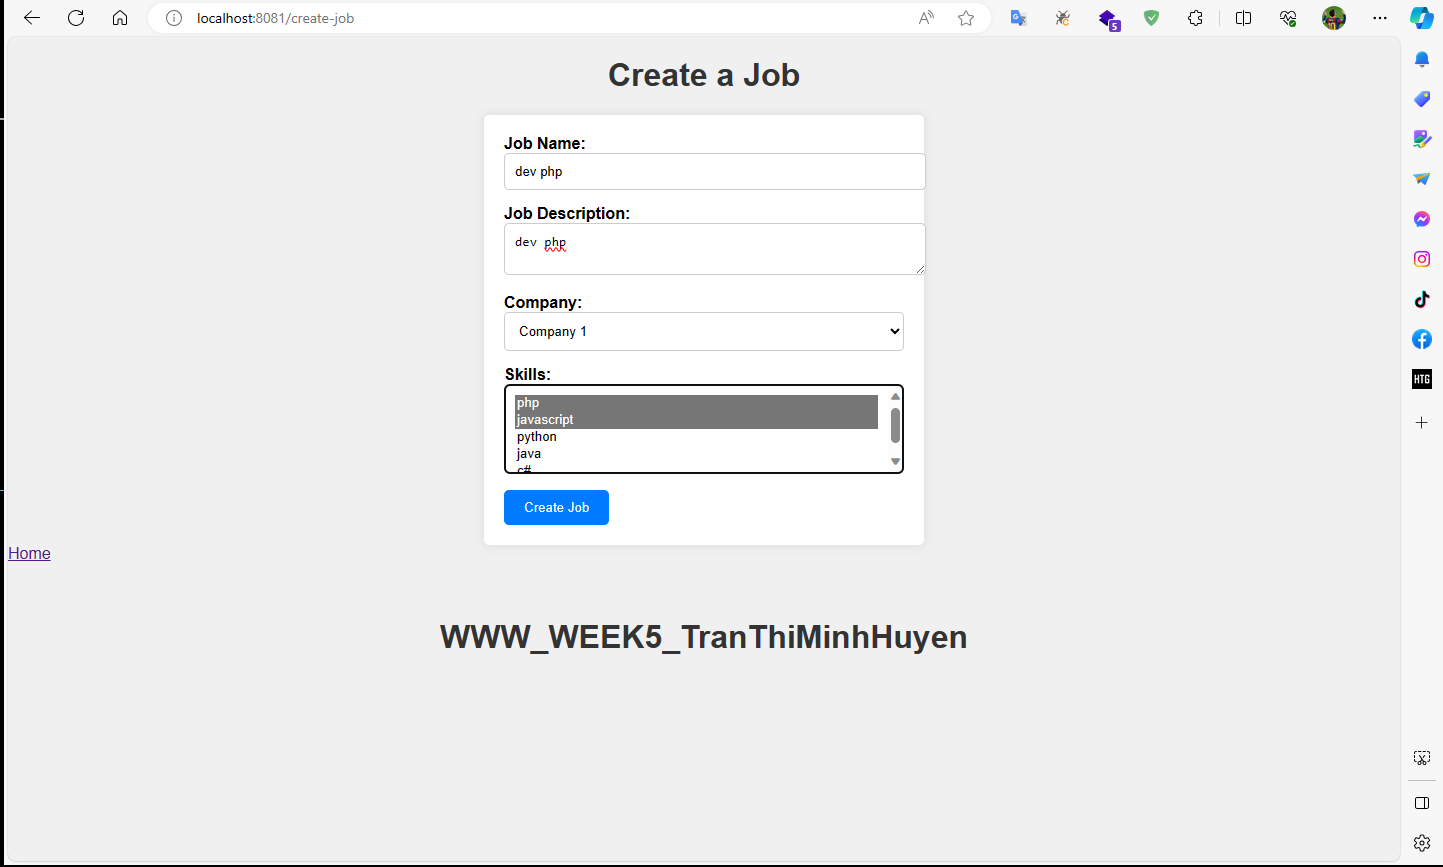
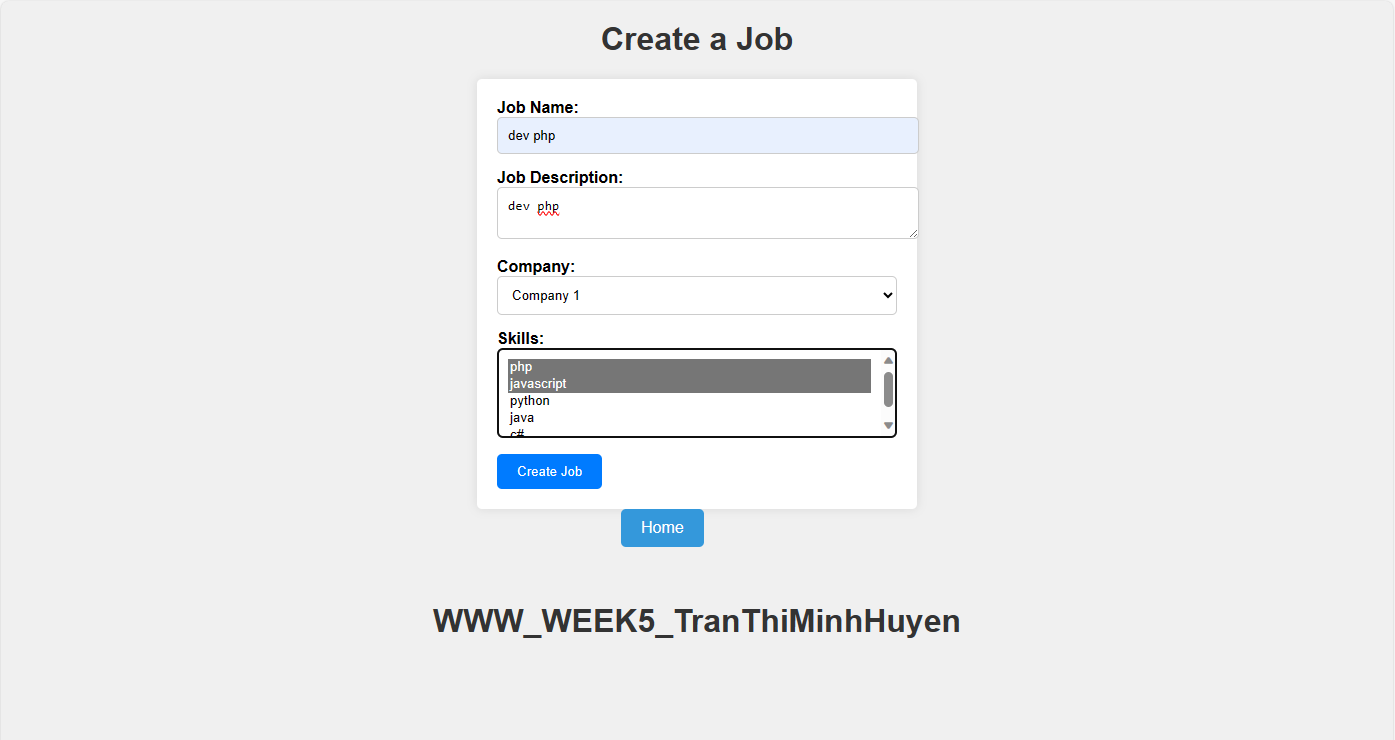
pú code

diff --git a/src/main/resources/templates/job/list.html b/src/main/resources/templates/job/list.html
@@ -10,7 +10,7 @@
             background-color: #f2f2f2;
         }
         h1 {
-            background-color: #333;
+            background-color: #007bff;
             color: #fff;
             padding: 10px;
             text-align: center;
@@ -27,7 +27,7 @@
             text-align: left;
         }
         thead {
-            background-color: #333;
+            background-color: #007bff;
             color: #fff;
         }
         tbody tr:nth-child(odd) {
@@ -47,17 +47,31 @@
         }
         .pagination a {
             text-decoration: none;
-            background-color: #333;
+            background-color: #007bff;
             color: #fff;
             padding: 5px 10px;
             border-radius: 5px;
         }
         .pagination a.active {
             background-color: #f2f2f2;
-            color: #333;
+            color: #007bff;
         }
         a {
             text-decoration: none;
+        }
+        .achor {
+            display: inline-block;
+            padding: 10px 20px;
+            text-decoration: none;
+            background-color: #3498db;
+            color: #fff;
+            border-radius: 5px;
+            transition: background-color 0.3s ease;
+        }
+
+        /* Hover effect */
+        .achor:hover {
+            background-color: #2980b9;
         }
     </style>
 </head>
@@ -95,9 +109,9 @@
             </ul>
         </div>
     </div>
-    <a href="/create-job">Create</a>
+    <a class="achor" style="margin-left: 620px;" href="/create-job">Create</a>
     
-    <a href="/">Home</a>
+    <a class="achor" href="/">Home</a>
 </br>
 </br>
 </br>

diff --git a/src/main/resources/templates/job/detail.html b/src/main/resources/templates/job/detail.html
@@ -10,7 +10,7 @@
             background-color: #f2f2f2;
         }
         h1 {
-            background-color: #333;
+            background-color: #007bff;
             color: #fff;
             padding: 10px;
             text-align: center;
@@ -104,17 +104,31 @@
         }
         .pagination a {
             text-decoration: none;
-            background-color: #333;
+            background-color: #007bff;
             color: #fff;
             padding: 5px 10px;
             border-radius: 5px;
         }
         .pagination a.active {
             background-color: #f2f2f2;
-            color: #333;
+            color: #007bff;
         }
         a {
             text-decoration: none;
+        }
+        .achor {
+            display: inline-block;
+            padding: 10px 20px;
+            text-decoration: none;
+            background-color: #3498db;
+            color: #fff;
+            border-radius: 5px;
+            transition: background-color 0.3s ease;
+        }
+
+        /* Hover effect */
+        .achor:hover {
+            background-color: #2980b9;
         }
     </style>
 </head>
@@ -190,7 +204,7 @@
             </ul>
         </div>
     </div>
-    <a href="/">Home</a>
+    <a class="achor" style="margin-left: 620px;" href="/">Home</a>
 </br>
 </br>
 </br>

diff --git a/src/main/resources/templates/candidate/list.html b/src/main/resources/templates/candidate/list.html
@@ -54,14 +54,14 @@
         }
         .pagination a {
             text-decoration: none;
-            background-color: #333;
+            background-color: #007bff;
             color: #fff;
             padding: 5px 10px;
             border-radius: 5px;
         }
         .pagination a.active {
             background-color: #f2f2f2;
-            color: #333;
+            color: #007bff;
         }
         a {
             text-decoration: none;
@@ -103,6 +103,20 @@
 
         button[type="submit"]:hover {
             background-color: #0056b3;
+        }
+        .achor {
+            display: inline-block;
+            padding: 10px 20px;
+            text-decoration: none;
+            background-color: #3498db;
+            color: #fff;
+            border-radius: 5px;
+            transition: background-color 0.3s ease;
+        }
+
+        /* Hover effect */
+        .achor:hover {
+            background-color: #2980b9;
         }
     </style>
 </head>
@@ -159,7 +173,8 @@
             </ul>
         </div>
     </div>
-    <a href="/">Home</a>
+   
+    <a class="achor" style="margin-left: 620px;" href="/">Home</a>
 </br>
 </br>
 </br>

diff --git a/src/main/resources/templates/candidate/detail.html b/src/main/resources/templates/candidate/detail.html
@@ -47,11 +47,25 @@
             text-align: left;
         }
         thead {
-            background-color: #333;
+            background-color: #007bff;
             color: #fff;
         }
         tbody tr:nth-child(odd) {
             background-color: #f2f2f2;
+        }
+        .achor {
+            display: inline-block;
+            padding: 10px 20px;
+            text-decoration: none;
+            background-color: #3498db;
+            color: #fff;
+            border-radius: 5px;
+            transition: background-color 0.3s ease;
+        }
+
+        /* Hover effect */
+        .achor:hover {
+            background-color: #2980b9;
         }
     </style>
 </head>
@@ -124,7 +138,7 @@
             </tr>
         </tbody>
     </table>
-    <a href="/">Home</a>
+    <a class="achor" style="margin-left: 620px;" href="/">Home</a>
 </br>
 </br>
 </br>

diff --git a/src/main/resources/templates/job/create.html b/src/main/resources/templates/job/create.html
@@ -58,6 +58,20 @@
         .btn-primary:hover {
             background-color: #0056b3;
         }
+        .achor {
+            display: inline-block;
+            padding: 10px 20px;
+            text-decoration: none;
+            background-color: #3498db;
+            color: #fff;
+            border-radius: 5px;
+            transition: background-color 0.3s ease;
+        }
+
+        /* Hover effect */
+        .achor:hover {
+            background-color: #2980b9;
+        }
     </style>
 </head>
 <body>
@@ -98,7 +112,7 @@
             <input type="submit" value="Create Job" class="btn btn-primary" />
         </form>
     </div>
-    <a href="/">Home</a>
+    <a class="achor" style="margin-left: 620px;" href="/">Home</a>
 </br>
 </br>
 </br>

diff --git a/src/main/java/iuh/edu/vn/www_week04_spring/WwwWeek04SpringApplication.java b/src/main/java/iuh/edu/vn/www_week04_spring/WwwWeek04SpringApplication.java
@@ -74,7 +74,7 @@ public class WwwWeek04SpringApplication {
             addressRepository.save(add); 
  
             Candidate can=new Candidate("Name #"+i, 
-                   new Date(1998,rnd.nextInt(1,13),rnd.nextInt(1,29)), 
+                   new Date(102,rnd.nextInt(1,13),rnd.nextInt(1,29)), 
                    add, 
                    rnd.nextLong(1111111111L,9999999999L)+"", 
                    "mhuyen_"+i+"@gmail.com"); 

diff --git a/readme.md b/readme.md
@@ -25,4 +25,5 @@ Candidates will be recommended some skills that they do not have for learning.
     ![joblist.png](/public/huyenlab5_6.jpeg)
 4. View the list of candidates, candidates can view their own information and see the companies that match their profile as well as their skills in relation to various job positions.
     ![candidatefillter.png](/public/huyenlab5_7.png)
+    ![candidatefillter1.png](/public/huyenlab5_8.jpeg)
     ![candidatedetail.png](/public/huyenlab5_9.jpeg)
